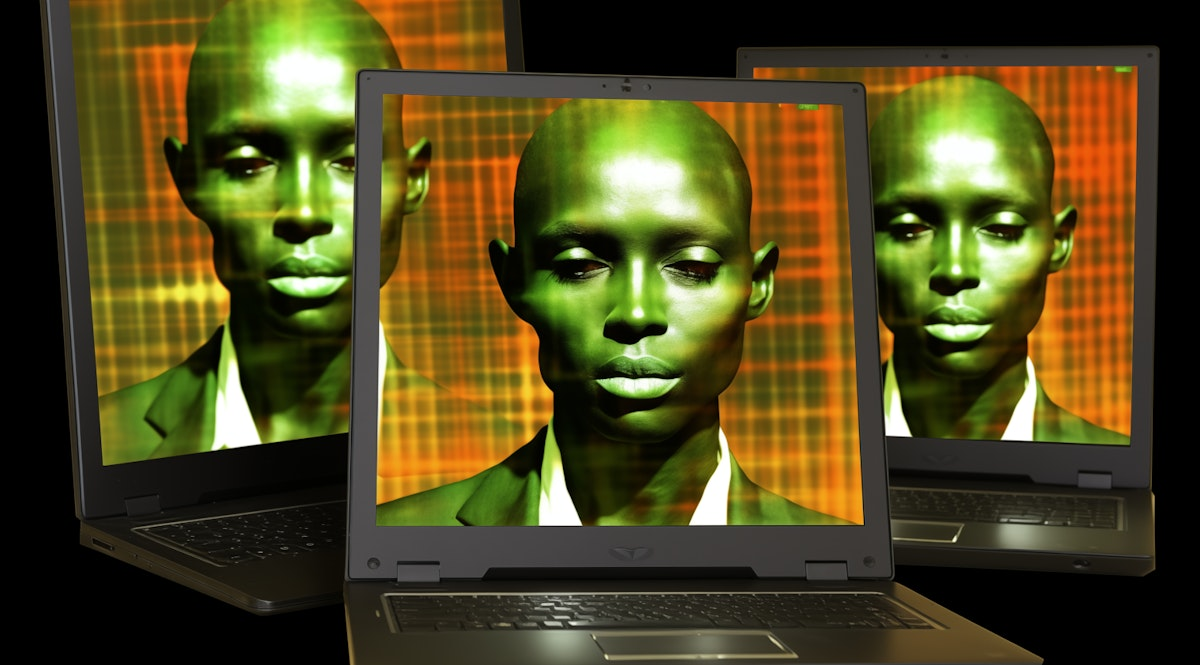
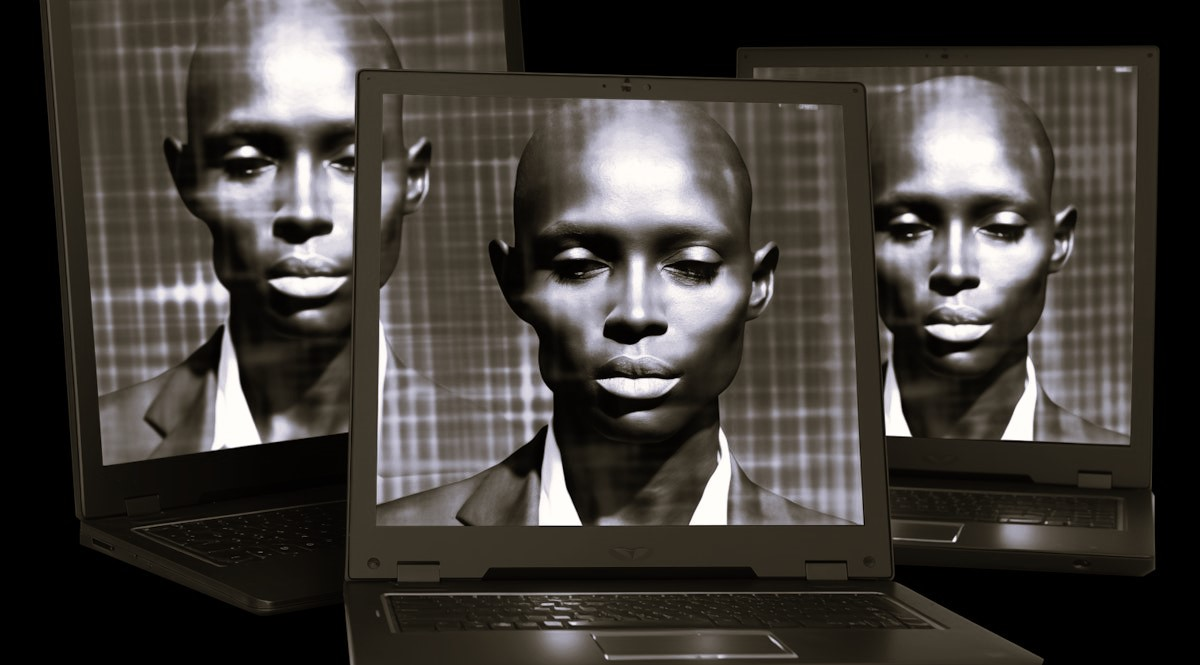
updated journal images

diff --git a/journal.html b/journal.html
@@ -1111,7 +1111,7 @@ const newStyles = `
 
                 
                 <a href="master-illusion.html" class="card">
-                    <img src="images/hello_f-removebg-preview.png" alt="Space Exploration" class="blog-img">
+                    <img src="images/hello_f.jpg" alt="Space Exploration" class="blog-img">
                     <div class="card-content">
                         <h3>How Identity is a Self-Generating Prison</h3>
                         
@@ -1127,7 +1127,7 @@ const newStyles = `
                 </a>
 
                 <a href="neuroscience-of-psychedelics.html" class="card">
-                    <img src="images/Colorful_Light_Trails-removebg-preview.png" alt="Space Exploration" class="blog-img">
+                    <img src="images/Abstract_Human_Figure-removebg-preview (2).png" alt="Space Exploration" class="blog-img">
                     <div class="card-content">
                         <h3>How Psychedelics Dissolve Reality and Rewire the Mind </h3>
                         
@@ -1275,7 +1275,7 @@ const newStyles = `
                 </a>
 
                 <a href="edge-of-forever.html" class="card">
-                    <img src="images/Futuristic Digital Tunnel.jpeg" alt="Space Exploration" class="blog-img">
+                    <img src="images/Person_on_Geometric_Structure_with_Laptop-removebg-preview.png" alt="Space Exploration" class="blog-img">
                     <div class="card-content">
                         <h3>Are We Trapped in an Endless Loop of Reality?</h3>
                         
@@ -1306,7 +1306,7 @@ const newStyles = `
                 </a> -->
 
                 <a href="digital-after-life.html" class="card">
-                    <img src="images/Cloud-Headed Man.jpeg" alt="Space Exploration" class="blog-img">
+                    <img src="images/Human_vs._Machine_-_A_Portrait_in_Contrast-removebg-preview.png" alt="Space Exploration" class="blog-img">
                     <div class="card-content">
                         <h3>Can Consciousness Be Uploaded?</h3>
                         <div class="blog-meta">

diff --git a/neuroscience-of-psychedelics.html b/neuroscience-of-psychedelics.html
@@ -484,7 +484,7 @@
     <section class="section">
         <div class="article-container">
             <div class="article-image">
-                <img src="images/Colorful_Light_Trails-removebg-preview.png" alt="AI Brain" class="featured-image">
+                <img src="images/Abstract_Human_Figure-removebg-preview (2).png" alt="AI Brain" class="featured-image">
             </div>
             <div class="article-header">
                 <h1>The Neuroscience of Psychedelics: How They Dissolve Reality and Rewire the Mind</h1>

diff --git a/edge-of-forever.html b/edge-of-forever.html
@@ -484,7 +484,7 @@
     <section class="section">
         <div class="article-container">
             <div class="article-image">
-                <img src="images/Futuristic Digital Tunnel.jpeg" alt="AI Brain" class="featured-image">
+                <img src="images/Person_on_Geometric_Structure_with_Laptop-removebg-preview.png" alt="AI Brain" class="featured-image">
             </div>
             <div class="article-header">
                 <h1>The Edge of Forever: Are We Trapped in an Endless Loop of Reality?</h1>

diff --git a/ai-human-consciousness.html b/ai-human-consciousness.html
@@ -484,7 +484,7 @@
     <section class="section">
         <div class="article-container">
             <div class="article-image">
-                <img src="images/Meditative Humanoid Robot.jpeg" alt="AI Brain" class="featured-image">
+                <img src="images/Meditative_Humanoid_Robot-removebg-preview.png" alt="AI Brain" class="featured-image">
             </div>
             <div class="article-header">
                 <h1>Beyond the Shell: The Convergence of AI and Human Consciousness.</h1>

diff --git a/master-illusion.html b/master-illusion.html
@@ -484,7 +484,7 @@
     <section class="section">
         <div class="article-container">
             <div class="article-image">
-                <img src="images/hello_f-removebg-preview.png" alt="AI Brain" class="featured-image">
+                <img src="images/hello_f.jpg" alt="AI Brain" class="featured-image">
             </div>
             <div class="article-header">
                 <h1>The Master Illusion: How Identity is a Self-Generating Prison</h1>

diff --git a/digital-after-life.html b/digital-after-life.html
@@ -465,7 +465,7 @@
     <section class="section">
         <div class="article-container">
             <div class="article-image">
-                <img src="images/Cloud-Headed Man.jpeg" alt="AI Brain" class="featured-image">
+                <img src="images/Human_vs._Machine_-_A_Portrait_in_Contrast-removebg-preview.png" alt="AI Brain" class="featured-image">
             </div>
             <div class="article-header">
                 <h1></h1>
